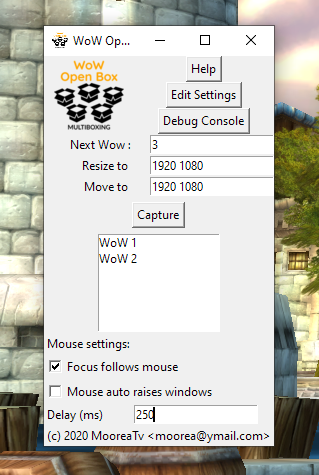
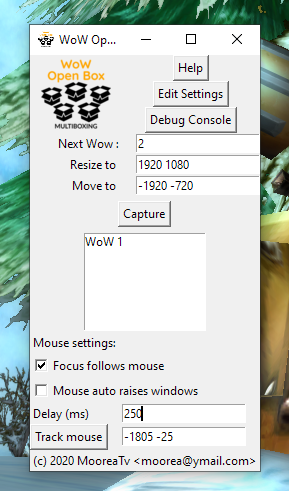
mouse tracking info

diff --git a/help.md b/help.md
@@ -26,6 +26,8 @@ You can change the focus following mouse and auto raise/set foreground and the d
 
 Note that to change the delay you need to hit the Return key
 
+There is a "Track Mouse" (and stop tracking) button (and hotkey, default `Ctrl-Shift-M`) to track coordinates to help doing pixel perfect placement of your windows
+
 ## Need more help? Report a problem? Suggest a new feature?
 
 Make sure you are running the latest [release](https://github.com/WowOpenBox/WowOpenBox/releases)
